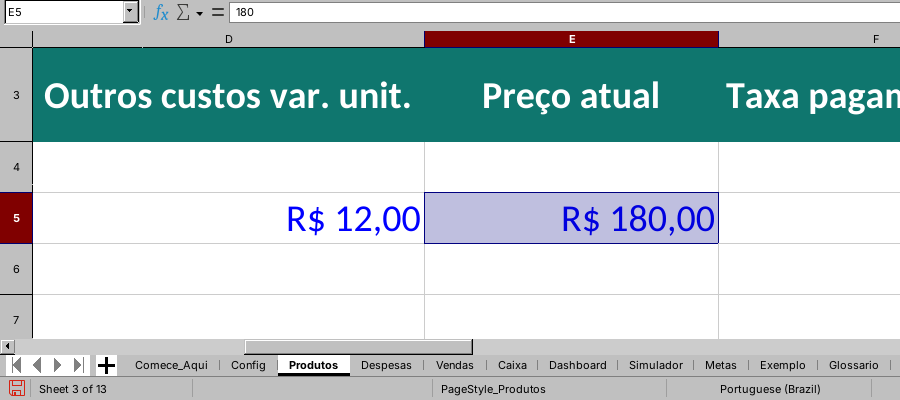
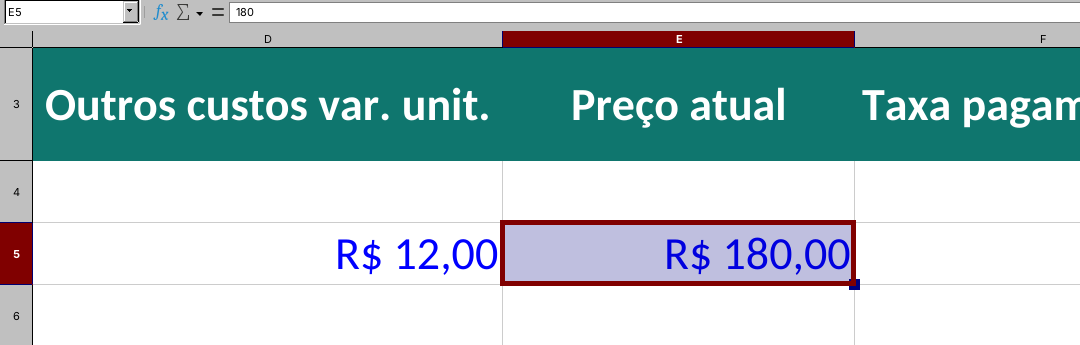
feat(shorts-v3.6): tela real em largura total até a borda; rodapé real; desempate por OCR
Ensaio por PR 43646726494 (1º do modo novo, júri real): 9,1 — gancho 9,5,
legibilidade 7,5, prova 9,5, oferta 9,0, marca 9,5; objetiva: R$ 39,00
não lido no vídeo. Júri: "terço inferior vazio (abaixo de 1470)" e
"cabeçalhos/fórmulas pequenos fora da área ampliada".

- Tela real do Calc a 300%, 1080 px (sangra a largura), da barra de
  fórmulas à linha 6 (prova) + grade real das linhas seguintes até a
  borda de baixo, SEM texto (nada essencial sob a interface do Shorts).
  Close-up a 400% num cartão sobre as linhas vazias; faixa escura sob a
  legenda. Captura reseleciona a célula e fixa a rolagem (barra de status
  e primeira linha corretas); LANG pt-BR documentado.
- Quadros sem planilha: rodapé abaixo de 1470 com trecho real do material
  (capa / módulo 1), registrado como captura com hash.
- medir.py: close-ups quase iguais (NCC 0,966 x 0,965) disputavam o mesmo
  lugar; agora vence a prova cujo valor da proveniência é lido ali (OCR
  estrito); sem leitura de nenhuma/ambas, a correlação maior.

Claude-Session: https://claude.ai/code/session_013qEayJV2BctKApuM3NnNgu

diff --git a/scripts/shorts-v3/quadros.py b/scripts/shorts-v3/quadros.py
@@ -59,23 +59,33 @@ def captura(d, nome, x, y, largura):
     return y + s.height + 8
 PROV = json.loads((CAP / "planilha-proveniencia.json").read_text(encoding="utf-8"))
 def celula(d, nome, y, largura=SAFE_R - 64):
-    """v3.5: close-up REAL do LibreOffice Calc a 400% (célula selecionada, faixa das letras das colunas), recortado em
-    torno do valor e ampliado só por escala uniforme; origem verificável escrita FORA do recorte."""
+    """v3.6: close-up REAL do Calc a 400% num cartão escuro sobre as linhas vazias da tela; origem escrita no cartão,
+    FORA do recorte. Ampliado só por escala uniforme."""
     largura = round(largura * float(spec.get("escala_celulas", 1)))  # só a calibração muda (caso negativo de célula miúda)
     c = PROV["celulas"][nome]; x = (64 + SAFE_R - largura) // 2
-    fim = captura(d, Path(c["arquivo"]).name, x, y, largura)
-    d.text((64, fim + 12), f"Aba {c['aba']} · célula {c['celula']} (ampliada)", font(38), MUTED)
-    return fim + 56
+    s_ = Image.open(CAP / Path(c["arquivo"]).name); alt = round(s_.height * largura / s_.width)
+    d.rounded_rectangle((x - 30, y, x + largura + 30, y + alt + 104), 30, fill=BG, outline=YEL, width=5)
+    fim = captura(d, Path(c["arquivo"]).name, x, y + 24, largura)
+    d.text((x, fim + 6), f"Aba {c['aba']} · célula {c['celula']} (ampliada)", font(38), MUTED)
+    return fim + 72
 def tela(d, nome, y):
-    """v3.5: TELA REAL do LibreOffice Calc (barra de fórmulas, colunas, linhas, abas, barra de status) com a célula
-    selecionada; abaixo dela, uma seta amarela aponta do cabeçalho da coluna selecionada para o close-up."""
+    """v3.6 (júri real 9,1 — ensaio 43646726494): TELA REAL do Calc a 300% em LARGURA TOTAL (sangra 0–1080): da barra
+    de fórmulas à linha 6 (a prova) e, colada abaixo, a grade real das linhas seguintes até a borda de baixo (sem texto,
+    sob a interface do Shorts). Seta amarela do cabeçalho da coluna selecionada para o close-up."""
     c = PROV["celulas"][nome]; arq = CAP / Path(c["tela"]).name; s = Image.open(arq).convert("RGB")
-    larg = SAFE_R - 64; esc = larg / s.width
-    fim = captura(d, arq.name, 64, y, larg)
+    d.im.paste(s, (0, y)); med["provaReal"] = True; fim = y + s.height
+    resto = Image.open(CAP / Path(c["resto"]).name).convert("RGB")
+    d.im.paste(resto.crop((0, 0, resto.width, max(0, H - fim))), (W - resto.width, fim))
+    d.rectangle((0, fim, W - resto.width - 1, H), fill=(198, 198, 198))  # faixa do rótulo de linhas, sem os números
     px = s.load(); xs = next((v for v in ([i for i in range(s.width) if px[i, yy][:3] == (128, 0, 0)] for yy in range(0, 80)) if v), [])
-    cx = 64 + round((min(xs) + max(xs)) / 2 * esc) if xs else (64 + SAFE_R) // 2
-    seta(d, cx, fim + 2, fim + 40)
+    cx = round((min(xs) + max(xs)) / 2) if xs else (64 + SAFE_R) // 2
+    seta(d, min(cx, SAFE_R - 40), fim + 4, fim + 44)
     return fim + 48
+FAIXA_LEGENDA = (0, 1322, W, 1458)  # v3.6: faixa escura sob a legenda (y≈1390) quando ela passa sobre a planilha clara
+def faixa_legenda(d): d.rectangle(FAIXA_LEGENDA, fill=BG)
+def rodape(d, nome):
+    """v3.6: abaixo de y=1470 (interface do Shorts) não fica vazio: trecho REAL do material do kit, em largura total."""
+    d.im.paste(Image.open(CAP / nome).convert("RGB"), (0, SAFE_B)); med["provaReal"] = True
 def q_gancho(d):
     d.text((64, 290), "LOJA · " + O["nome"].upper(), font(42), BLUE)
     y = rich(d, 64, 350, spec["falas"][0]["texto"], font(112), hl=("dinheiro", "desaparece?"))
@@ -92,7 +102,7 @@ def q_gancho(d):
 def q_venda(d):
     d.text((64, 290), "PASSO 1 · EXEMPLO DE VENDA: TÊNIS", font(44), BLUE)
     y = rich(d, 64, 350, "Sua última venda.", font(84), hl=("última", "venda.")) + 26
-    celula(d, "preco", tela(d, "preco", y))
+    celula(d, "preco", tela(d, "preco", y)); faixa_legenda(d)
 def seta(d, x, y0, y1, cor=YEL):
     d.line((x, y0, x, y1 - 26), fill=cor, width=10); d.polygon([(x - 26, y1 - 30), (x + 26, y1 - 30), (x, y1)], fill=cor)
 def q_conta(d, etapa):
@@ -109,14 +119,15 @@ def q_conta(d, etapa):
     y = celula(d, "contribuicao", tela(d, "contribuicao", 350)) + 4
     d.rounded_rectangle((64, y, SAFE_R, CB), 36, fill=(10, 60, 40), outline=(40, 200, 120), width=6)
     d.text(((64 + SAFE_R) // 2, (y + CB) // 2), "Sobram " + brl(N["margem_antes_fixas"]), font(min(110, CB - y - 30)), GREEN, anchor="mm")
+    faixa_legenda(d)
 def q_planilha(d):
     d.text((64, 290), "PLANILHA REAL · LIBREOFFICE CALC", font(44), BLUE)
     y = rich(d, 64, 350, "A margem aparece na hora.", font(80), hl=("margem",)) + 26
-    celula(d, "margem", tela(d, "margem", y))
+    celula(d, "margem", tela(d, "margem", y)); faixa_legenda(d)
 def q_desconto(d):
     d.text((64, 290), "PLANILHA REAL · LIBREOFFICE CALC", font(44), BLUE)
     y = rich(d, 64, 350, "O seu limite de desconto.", font(80), hl=("limite",)) + 26
-    celula(d, "desconto", tela(d, "desconto", y))
+    celula(d, "desconto", tela(d, "desconto", y)); faixa_legenda(d)
 MANUAL = "manual-topo.png"  # v3.5: topo REAL da capa do manual (recorte sem retoque), em largura total e legível
 def capa(d, y, largura=SAFE_R - 64):
     return captura(d, MANUAL, (64 + SAFE_R - largura) // 2, y, largura)
@@ -142,11 +153,14 @@ def q_oferta(d, fase):
     y = capa(d, y) + 24
     d.rounded_rectangle((64, y, SAFE_R, CB), 70, fill=BLUE)
     d.text(((64 + SAFE_R) // 2, (y + CB) // 2), "Link na descrição", font(min(76, CB - y - 30)), BG, anchor="mm")
+RODAPE = {"gancho": "rodape-capa.png", "conta-1": "rodape-capa.png", "conta-2": "rodape-capa.png",
+          "beneficio": "rodape-modulo.png", "oferta": "rodape-modulo.png", "cta": "rodape-modulo.png"}
 quadros = {"gancho": q_gancho, "venda": q_venda, "conta-1": lambda d: q_conta(d, 1), "conta-2": lambda d: q_conta(d, 2), "conta-3": lambda d: q_conta(d, 3),
            "planilha": q_planilha, "desconto": q_desconto, "beneficio": lambda d: q_oferta(d, 0), "oferta": lambda d: q_oferta(d, 1), "cta": lambda d: q_oferta(d, 2)}
 falas = spec["falas"]; out = {}
 for i, f in enumerate(falas):
     im, d = base((i + 1) / len(falas)); quadros[f["quadro"]](d)
+    if f["quadro"] in RODAPE: rodape(d, RODAPE[f["quadro"]])
     # quadro vazio = área de conteúdo sem desenho (variação de cor desprezível entre y=280 e 1470)
     box = im.crop((64, 280, SAFE_R, SAFE_B)).convert("L"); ext = box.getextrema()
     if ext[1] - ext[0] < 40: med["quadroVazio"] += 1

diff --git a/scripts/shorts-v3/capturar_planilha.py b/scripts/shorts-v3/capturar_planilha.py
@@ -6,20 +6,24 @@ aberto numa tela virtual (Xvfb), a planilha ORIGINAL (sha256 conferido) recebe a
 LibreOffice (UNO), é recalculada, a célula é selecionada e a tela é fotografada (ImageMagick import). Duas capturas
 por célula, sem retoque de pixels — só recorte:
   tela-<nome>.png    contexto: barra de fórmulas com a fórmula real, letras das colunas, números das linhas, abas,
-                     barra de status, zoom 250%, ~3 colunas em volta da célula;
+                     barra de status, zoom 300%, 1080 px; + tela-<nome>-resto.png;
   celula-<nome>.png  close-up: a mesma célula selecionada a 400% (faixa das letras das colunas + linha 5), recortada
                      em torno do valor para que ele fique legível no celular.
-Uso: xvfb + soffice escutando em 2002 (ver tests/media); python3 capturar_planilha.py ORIGINAL.xlsx PROVENIENCIA.json SAIDA/
+Uso: Xvfb (tela 1400x1800) + soffice escutando em 2002, com LANG=pt_BR.UTF-8 (formato R$ e vírgula) (ver tests/media); python3 capturar_planilha.py ORIGINAL.xlsx PROVENIENCIA.json SAIDA/
 Não roda no CI: as imagens geradas são versionadas e conferidas por hash (manifesto.json)."""
 import hashlib, json, os, subprocess, sys, time
 import uno
 from com.sun.star.beans import PropertyValue
 from PIL import Image
 
-LARGURA_JANELA, ALTURA_CONTEXTO, ALTURA_PERTO = 1400, 480, 760
+LARGURA_JANELA, ALTURA_CONTEXTO, ALTURA_PERTO = 1400, 1720, 760
 SEL = (128, 0, 0)  # cor do cabeçalho da coluna/linha selecionada no Calc (tema padrão)
 # contexto: da barra de fórmulas (nome da célula + fórmula) até a barra de status, sem menus/ferramentas nem painel lateral
-CORTE_TELA = (0, 80, 900, ALTURA_CONTEXTO)  # v3.5: zoom 250% e ~3 colunas (júri: 'texto microscópico')
+# v3.6 (júri real 9,1, ensaio 43646726494: "terço inferior vazio" e "cabeçalhos pequenos"): tela a 300%, 1080 de largura
+# (sangra a largura do Short) e alta o bastante para descer até a borda de baixo; dividida em DUAS imagens reais:
+# tela-<nome>.png (barra de fórmulas até a linha 6 — a prova, medida por NCC) e tela-<nome>-resto.png (só a grade
+# das linhas seguintes, sem texto — continuação real que fica sob a interface do Shorts).
+CORTE_TELA = (0, 80, 1080, ALTURA_CONTEXTO); ZOOM_TELA = 300; ROTULO_LINHAS = 33; RODAPE_CALC = 62
 
 def _p(n, v):
     p = PropertyValue(); p.Name = n; p.Value = v; return p
@@ -59,10 +63,18 @@ def main(original, prov_path, saida):
             cel = sh.getCellRangeByName(c["celula"]); col = cel.CellAddress.Column
             if sh.getCellByPosition(col, linha - 1).getString() != c["valor_exibido"]: raise SystemExit("valor_exibido_divergente:" + nome)
             ctrl.select(cel)
-            win.setPosSize(0, 0, LARGURA_JANELA, ALTURA_CONTEXTO, 15); ctrl.ZoomValue = 250
-            ctrl.setFirstVisibleColumn(max(0, col - 1)); ctrl.setFirstVisibleRow(2)  # a partir do cabeçalho (linha 3); time.sleep(2.5)
+            win.setPosSize(0, 0, LARGURA_JANELA, ALTURA_CONTEXTO, 15); ctrl.ZoomValue = ZOOM_TELA
+            ctrl.setFirstVisibleColumn(max(0, col - 1)); ctrl.setFirstVisibleRow(2)  # a partir do cabeçalho (linha 3)
+            ctrl.select(sh.getCellRangeByName("A1")); time.sleep(1); ctrl.select(cel)  # barra de status atualizada para ESTA célula
+            ctrl.setFirstVisibleColumn(max(0, col - 1)); ctrl.setFirstVisibleRow(2)  # a seleção rola a tela: fixa de novo; time.sleep(2.5)
             tmp = os.path.join(saida, f".raw-{nome}.png"); subprocess.run(["import", "-window", "root", tmp], check=True)
-            Image.open(tmp).convert("RGB").crop(CORTE_TELA).save(os.path.join(saida, f"tela-{nome}.png"))
+            tela = Image.open(tmp).convert("RGB"); _, y1t = faixa_selecionada(tela, "y", 10, 100, ALTURA_CONTEXTO - 80)  # linha 5
+            corte = y1t + (y1t - faixa_selecionada(tela, "y", 10, 100, ALTURA_CONTEXTO - 80)[0])  # + altura de 1 linha (linha 6)
+            tela = tela.crop(CORTE_TELA); h = corte - CORTE_TELA[1]
+            tela.crop((0, 0, tela.width, h)).save(os.path.join(saida, f"tela-{nome}.png"))
+            # continuação: só a GRADE das linhas seguintes (sem números de linha, abas nem barra de status) — nada de texto
+            # abaixo de y=1470, onde fica a interface do Shorts
+            tela.crop((ROTULO_LINHAS, h, tela.width, tela.height - RODAPE_CALC)).save(os.path.join(saida, f"tela-{nome}-resto.png"))
             win.setPosSize(0, 0, LARGURA_JANELA, ALTURA_PERTO, 15); ctrl.ZoomValue = 400
             ctrl.setFirstVisibleColumn(col); ctrl.setFirstVisibleRow(linha - 1); time.sleep(2.5)
             subprocess.run(["import", "-window", "root", tmp], check=True); im = Image.open(tmp).convert("RGB")

diff --git a/scripts/criativos/medir.py b/scripts/criativos/medir.py
@@ -148,14 +148,28 @@ for pv in cfg.get("provas", []):
 # Ensaio real 43639031016: no MP4 cada quadro aparece em vários estados (a legenda muda); exigir só o melhor estado
 # deixava o valor ilegível num estado de transição. Agora vale QUALQUER casamento (≥ 0,8) da prova que não seja
 # disputado, no mesmo quadro e no mesmo lugar, por outra prova com correlação maior.
+# Ensaio 43646726494: close-ups de células selecionadas são quase iguais para o NCC (0,966 x 0,965); a captura certa
+# perdia a disputa pelo próprio lugar e o valor saía "ilegível". Desempate: entre duas provas COM valor que disputam
+# o mesmo lugar, vence a cujo valor da proveniência é lido ali (OCR estrito); só se nenhuma ou ambas lerem, vale a
+# correlação maior. Sem valor, vale a correlação.
+_lido = {}
+def _le(a, i, c):
+    k = (id(a), i, c)
+    if k not in _lido: _lido[k] = valor_na_captura(frames[i], c, a["valor"]) if a["valor"] else 0
+    return _lido[k]
+def _vence(a, i, c, v, b, w):
+    if a["valor"] and b["valor"]:
+        la, lb = _le(a, i, c) > 0, _le(b, i, c) > 0
+        if la != lb: return la
+    return v > w or (v == w and achados.index(a) < achados.index(b))
 def _valido(a, i, c, v):
-    return not any(b is not a and j == i and w > v and _sobrepoe(c, d) for b in achados for j, d, w in b["caixas"])
+    return all(_vence(a, i, c, v, b, w) for b in achados if b is not a for j, d, w in b["caixas"] if j == i and _sobrepoe(c, d))
 for a in achados:
     a["validos"] = [(i, c) for i, c, v in a["caixas"] if _valido(a, i, c, v)]
     ok = bool(a["validos"])
     prova.append({"captura": a["captura"], "correlacao": round(a["best"], 3), "quadro": a["validos"][0][0] if ok else None, "exclusiva": ok})
     if a["valor"]:
-        altura = max([valor_na_captura(frames[i], c, a["valor"]) for i, c in a["validos"]] or [0])
+        altura = max([_le(a, i, c) for i, c in a["validos"]] or [0])
         legiveis.append({"captura": a["captura"], "valor": a["valor"], "altura_px": altura, "legivel": altura >= ALTURA_VALOR_MIN})
 for i, im in enumerate(frames):
     import io; buf = io.BytesIO(); im.save(buf, "PNG"); rows = ocr(buf.getvalue())
